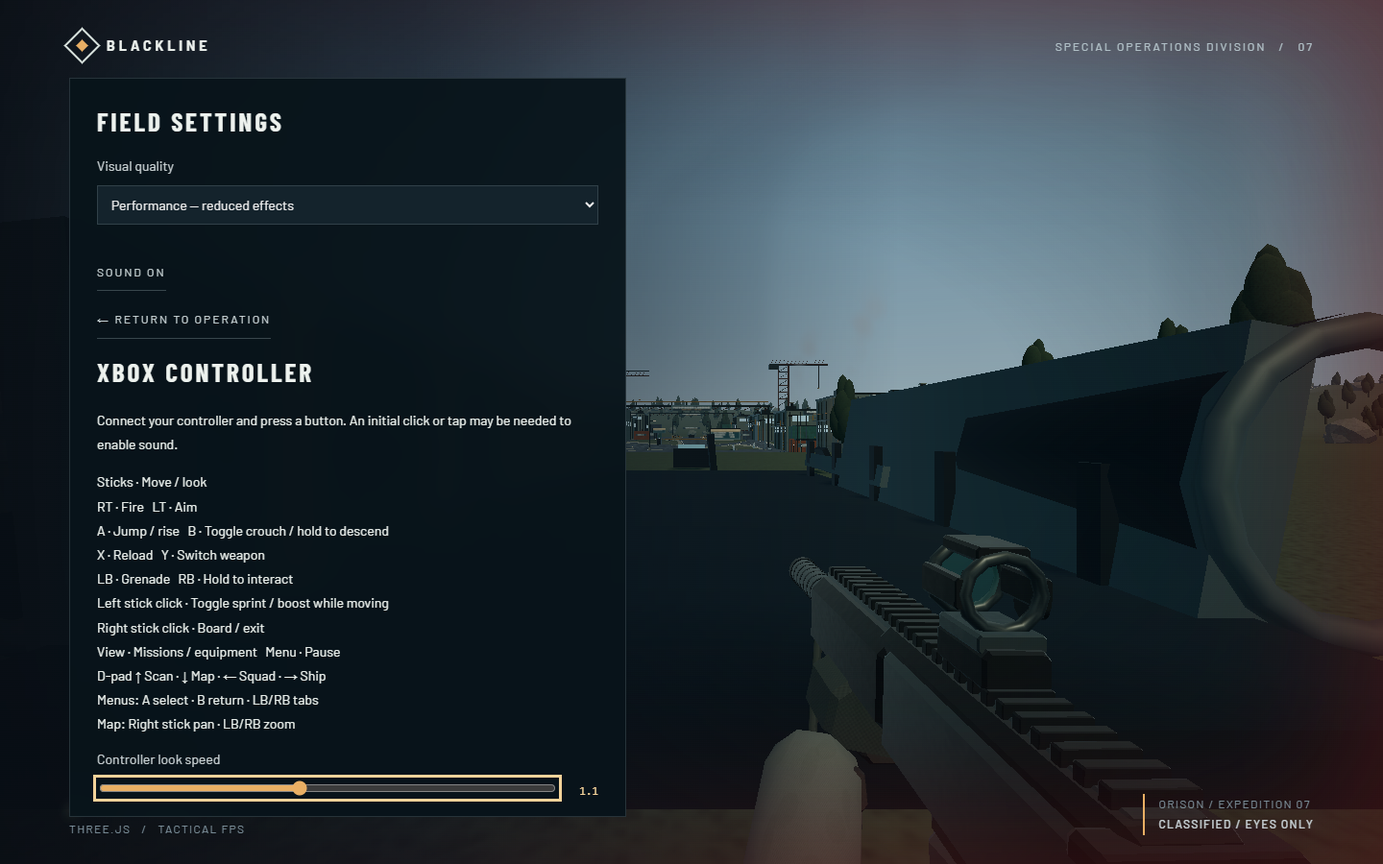
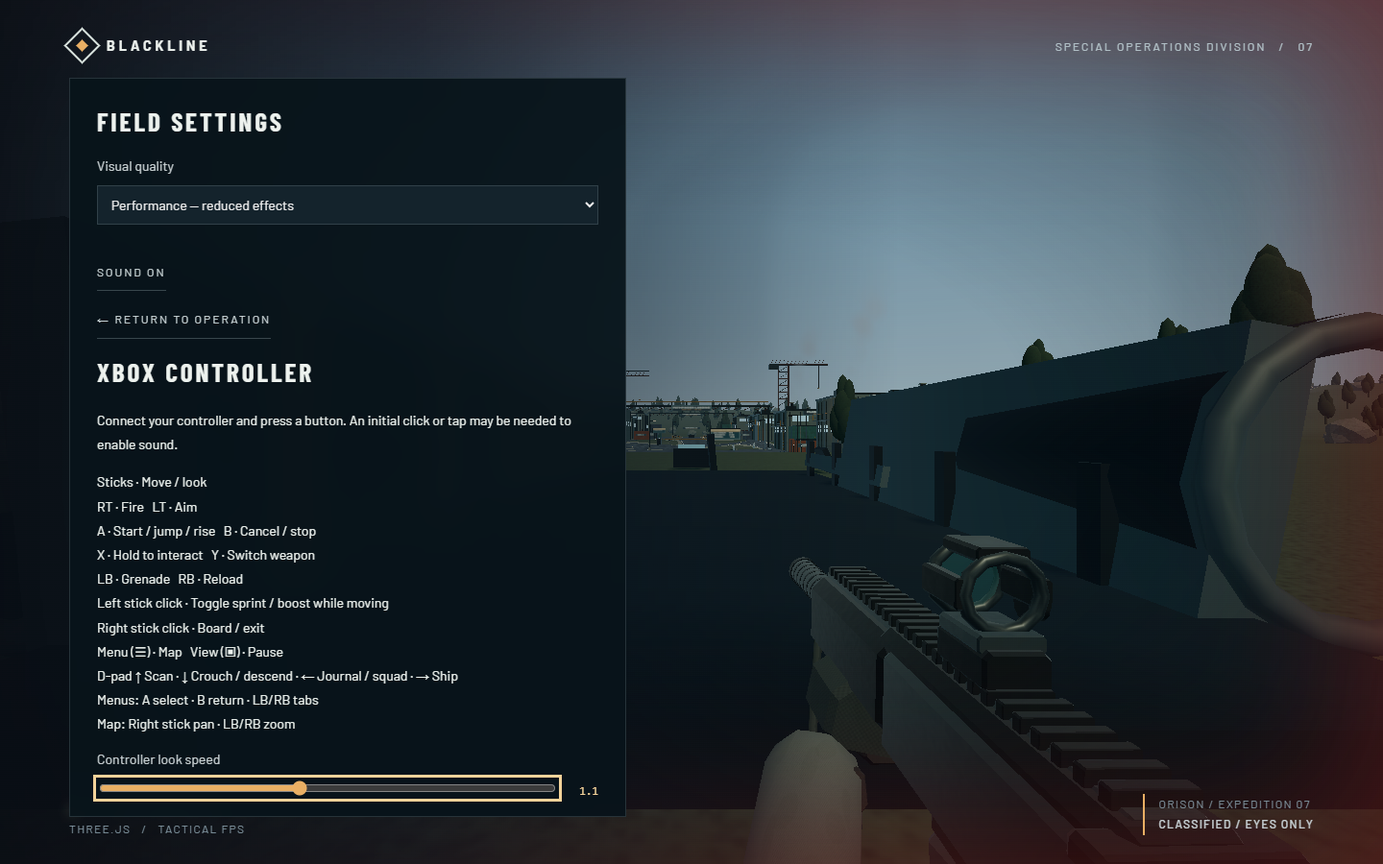
Apply requested Xbox buttons and B vehicle braking

Changed region(s): [[0.0625, 0.7467, 0.3438, 0.8089], [0.0938, 0.5911, 0.2812, 0.6844]]

diff --git a/src/main.ts b/src/main.ts
@@ -83,7 +83,7 @@ if(touchMode){$('utility').firstChild!.textContent='FRAG × ';document.querySele
 $('journal-hint').onclick=()=>openJournal();
 $('controls-button').insertAdjacentHTML('beforebegin','<button class="secondary" id="mission-menu" hidden>MISSIONS & EXPEDITION</button>');$('mission-menu').onclick=()=>openJournal();
 $('hud').insertAdjacentHTML('beforeend','<div id="controller-hint" hidden></div>');
-$('settings').insertAdjacentHTML('beforeend','<div class="controller-guide"><h3>XBOX CONTROLLER</h3><p>Connect your controller and press a button. An initial click or tap may be needed to enable sound.</p><p>Sticks · Move / look<br>RT · Fire &nbsp; LT · Aim<br>A · Jump / rise &nbsp; B · Toggle crouch / hold to descend<br>X · Reload &nbsp; Y · Switch weapon<br>LB · Grenade &nbsp; RB · Hold to interact<br>Left stick click · Toggle sprint / boost while moving<br>Right stick click · Board / exit<br>View · Missions / equipment &nbsp; Menu · Pause<br>D-pad ↑ Scan · ↓ Map · ← Squad · → Ship<br>Menus: A select · B return · LB/RB tabs<br>Map: Right stick pan · LB/RB zoom</p><label>Controller look speed<input id="pad-sensitivity" type="range" min="0.4" max="2" step="0.1" value="1"></label><label><input id="pad-invert" type="checkbox"> Invert controller vertical look</label></div>');
+$('settings').insertAdjacentHTML('beforeend','<div class="controller-guide"><h3>XBOX CONTROLLER</h3><p>Connect your controller and press a button. An initial click or tap may be needed to enable sound.</p><p>Sticks · Move / look<br>RT · Fire &nbsp; LT · Aim<br>A · Start / jump / rise &nbsp; B · Cancel / stop<br>X · Hold to interact &nbsp; Y · Switch weapon<br>LB · Grenade &nbsp; RB · Reload<br>Left stick click · Toggle sprint / boost while moving<br>Right stick click · Board / exit<br>Menu (☰) · Map &nbsp; View (▣) · Pause<br>D-pad ↑ Scan · ↓ Crouch / descend · ← Journal / squad · → Ship<br>Menus: A select · B return · LB/RB tabs<br>Map: Right stick pan · LB/RB zoom</p><label>Controller look speed<input id="pad-sensitivity" type="range" min="0.4" max="2" step="0.1" value="1"></label><label><input id="pad-invert" type="checkbox"> Invert controller vertical look</label></div>');
 const padSettings=installControllerSettings($('settings'));
 const sound=new Sound(), keys=new Set<string>();
 let firing=false,aiming=false,dragging=false,sensitivity=1,ready=false,accumulator=0,total=0,stepTime=0,toastUntil=0,subtitleUntil=0,hitUntil=0,crouched=false;
@@ -143,7 +143,7 @@ function resolvedTarget(){
  return target&&campaign.completed.includes(campaign.tracked)?{...target,faction:'friendly'}:target;
 }
 function mapSnapshot(){return {controller:gamepadMode,aboard:flight.piloting,target:resolvedTarget(),planetName:getPlanetAt(camera.position.x,camera.position.z).name,position:{x:camera.position.x,y:camera.position.y,z:camera.position.z},yaw:state.yaw,completed:[...campaign.completed,...campaign.encountersCompleted],signals:[...QUEST_PEOPLE.filter(p=>campaign.metPeople?.includes(p.id)&&personAvailable(p,campaign)).map(personTarget),...(encounters?.sites()??[]),...(flight?[shipSite()]:[])],boat:marine?{x:marine.position.x,z:marine.position.z}:undefined,discovered:campaign.discovered,tracked:campaign.tracked,patrols:enemies.map(e=>({x:e.position.x,z:e.position.z,alive:e.active&&e.health>0})),intel:true,ship:flight&&ownsShip(campaign)?{x:flight.position.x,z:flight.position.z}:undefined,allies:squad?.members.map(m=>({x:m.position.x,z:m.position.z,alive:m.health>0}))??[]};}
-function openMap(){if(state.mode!=='playing')return;setMenu('paused');mapOpen=true;$('menu').hidden=true;fieldMap.open(mapSnapshot());}
+function openMap(){if(state.mode!=='playing'&&state.mode!=='paused')return;setMenu('paused');mapOpen=true;$('menu').hidden=true;fieldMap.open(mapSnapshot());}
 function closeMap(){if(!mapOpen)return;mapOpen=false;fieldMap.close();setMenu('playing');void capturePointer();}
 
 function toast(text:string,seconds=2){$('toast').textContent=mobileHint(text);toastUntil=total+seconds;$('toast').style.opacity='1';}
@@ -249,7 +249,7 @@ window.addEventListener('mousemove',e=>{
 });
 
 async function capturePointer(){if(touchMode||gamepadMode||!renderer?.domElement.requestPointerLock)return;try{await renderer.domElement.requestPointerLock();}catch{toast(flight?.piloting?'MOVE MOUSE TO LOOK':'HOLD LEFT MOUSE TO LOOK',3);}}
-function mobileHint(text:string){if(gamepadMode)return text.replace(/hold USE/gi,'HOLD RB').replace(/HOLD E/g,'HOLD RB').replace(/F boards/g,'Right stick click boards').replace(/\bF\b/g,'R3').replace(/\bE\b/g,'RB').replace(/\bQ\b/g,'D-pad ← / Focus').replace(/\bH\b/g,'D-pad →').replace(/\bTab\b|\bTAB\b/g,'D-pad ↓').replace(/\bSpace\b|\bSPACE\b/g,'A').replace(/\bC\b/g,'B').replace(/\bShift\b|\bSHIFT\b/g,'L3').replace(/\bR ·/g,'X ·');return touchMode?text.replace(/F boards/g,'Tap BOARD for').replace(/F beside the hull/g,'Tap BOARD beside the hull').replace(/HOLD E/g,'HOLD USE').replace(/\bF\b/g,'BOARD / EXIT').replace(/\bE\b/g,'USE').replace(/\bQ\b/g,'MORE → FOCUS').replace(/\bH\b/g,'MORE → FIND SHIP').replace(/\bTab\b|\bTAB\b/g,'MAP').replace(/\bSpace\b|\bSPACE\b/g,'RISE').replace(/\bC\b/g,'DESCEND').replace(/\bSHIFT\b/g,'BOOST'):text;}
+function mobileHint(text:string){if(gamepadMode)return text.replace(/hold USE/gi,'HOLD X').replace(/HOLD E/g,'HOLD X').replace(/F boards/g,'Right stick click boards').replace(/\bF\b/g,'R3').replace(/\bE\b/g,'X').replace(/\bQ\b/g,'D-pad ← / Focus').replace(/\bH\b/g,'D-pad →').replace(/\bTab\b|\bTAB\b/g,'☰').replace(/\bSpace\b|\bSPACE\b/g,'A').replace(/\bC\b/g,'D-pad ↓').replace(/\bShift\b|\bSHIFT\b/g,'L3').replace(/\bR ·/g,'RB ·');return touchMode?text.replace(/F boards/g,'Tap BOARD for').replace(/F beside the hull/g,'Tap BOARD beside the hull').replace(/HOLD E/g,'HOLD USE').replace(/\bF\b/g,'BOARD / EXIT').replace(/\bE\b/g,'USE').replace(/\bQ\b/g,'MORE → FOCUS').replace(/\bH\b/g,'MORE → FIND SHIP').replace(/\bTab\b|\bTAB\b/g,'MAP').replace(/\bSpace\b|\bSPACE\b/g,'RISE').replace(/\bC\b/g,'DESCEND').replace(/\bSHIFT\b/g,'BOOST'):text;}
 function movementKeys(){return new Set(keys);}
 function analogMove(){return {x:Math.max(-1,Math.min(1,touchMove.x+padMove.x)),z:Math.max(-1,Math.min(1,touchMove.z+padMove.z))};}
 function isFiring(){return firing||padFire;}function isAiming(){return aiming||padAim;}
@@ -261,7 +261,7 @@ gamepad=createGamepad({settings:()=>padSettings.value,enabled:()=>gamepadMode&&r
  key(code,down){if(down){padKeys.add(code);handleKey(code);}else{padKeys.delete(code);if(!keyboardKeys.has(code))keys.delete(code);}},move(x,z){padMove.x=x;padMove.z=z;},
  look(x,y,dt){if(state.mode!=='playing'||opening.active)return;const delta=controllerLook(x,y,dt,padSettings.value,isAiming(),flight?.piloting??false);state.yaw+=delta.yaw;state.pitch=THREE.MathUtils.clamp(state.pitch+delta.pitch,-1.45,1.45);},
  fire(v){padFire=v;},aim(v){padAim=v;},disconnect(){gamepadMode=false;document.body.classList.remove('controller-active');if(state.mode==='playing')setMenu('paused');toast('CONTROLLER DISCONNECTED · RECONNECT OR USE KEYBOARD',5);},
- pause(){if(!$('settings').hidden){$('settings-close').click();return;}if(journalOpen||mapOpen)controllerBack();else if(state.mode==='playing')setMenu('paused');else if(state.mode==='paused')void deploy();},missions(){if(journalOpen)closeJournal();else if(state.mode==='playing'||state.mode==='paused')openJournal();},back(){if(opening?.active&&state.mode==='playing')finishOpening();else controllerBack();},panel:activePanel});
+ pause(){if(state.mode==='menu'||state.mode==='dead'||state.mode==='won'){if(!$('settings').hidden)$('settings-close').click();return;}if(journalOpen||mapOpen||!$('settings').hidden||state.mode==='playing')setMenu('paused');else if(state.mode==='paused')void deploy();},map(){if(mapOpen)closeMap();else openMap();},stop(){firing=aiming=false;keys.clear();keyboardKeys.clear();padKeys.clear();touch?.reset();touchMove.x=touchMove.z=0;if(flight?.piloting)flight.velocity.set(0,0,0);if(marine?.piloting)marine.stop();},back(){if(opening?.active&&state.mode==='playing')finishOpening();else controllerBack();},panel:activePanel});
 
 if(touchMode)touch=createTouchControls({key:(code,down)=>{if(down)handleKey(code);else keys.delete(code);},move:(x,z)=>{touchMove.x=x;touchMove.z=z;},look:(dx,dy)=>{if(state.mode!=='playing'||opening.active)return;const scale=.003*sensitivity*(isAiming()?.35:1);state.yaw-=dx*scale;state.pitch=THREE.MathUtils.clamp(state.pitch-dy*scale,-1.45,1.45);},fire:down=>{firing=down&&state.mode==='playing'&&!opening.active;},aim:down=>{aiming=down&&state.mode==='playing';},skip:finishOpening,wake:()=>{if(ready)sound.start();}});
 function reload(){if(state.weapon==='energy'){toast('ENERGY CELL RECHARGES BETWEEN SHOTS');return;}if(state.reload>0||state.ammo===30||state.reserve===0)return;state.reload=reloadDuration();sound.reload();toast('RELOADING',1.85);}
@@ -315,7 +315,7 @@ function toggleFlight(){
  if(flight.piloting){const exit=flight.tryExit();if(!exit){toast('LAND FIRST · SLOW DOWN AND DESCEND ON SOLID GROUND',3);return;}body.setTranslation({x:exit.x,y:exit.y-.7,z:exit.z},true);body.setNextKinematicTranslation({x:exit.x,y:exit.y-.7,z:exit.z});collider.setEnabled(true);camera.position.copy(exit);state.vertical=0;state.pitch=0;squad.disembark(exit,state.yaw);syncEnemies();toast('KESTREL LANDED · SQUAD DISEMBARKING');}
  else if(!ownsShip(campaign)){toast(shipOffer(campaign).description,6);return;}
  else if(['cell','ship'].includes(campaign.onboarding?.stage)){toast('KESTREL NEEDS ITS POWER CELL · FOLLOW THE RECOVERY BEACON');return;}
- else if(flight.board(camera.position)){saveGame();finishRecovery('complete');squad.embark();collider.setEnabled(false);const pose=flight.cameraPose();state.yaw=pose.yaw;state.pitch=pose.pitch;toast(gamepadMode?'RIGHT STICK · LOOK   LEFT STICK · THRUST   A / B · ALTITUDE':touchMode?'SWIPE TO LOOK · RISE TO TAKE OFF':'MOUSE LOOK · WASD THRUST · SPACE UP · C DOWN',4);subtitle('Rook: Squad aboard. Set your heading. The carrier is a safe place to refuel and regroup.',5);}
+ else if(flight.board(camera.position)){saveGame();finishRecovery('complete');squad.embark();collider.setEnabled(false);const pose=flight.cameraPose();state.yaw=pose.yaw;state.pitch=pose.pitch;toast(gamepadMode?'RIGHT STICK · LOOK   LEFT STICK · THRUST   A / D-PAD ↓ · ALTITUDE':touchMode?'SWIPE TO LOOK · RISE TO TAKE OFF':'MOUSE LOOK · WASD THRUST · SPACE UP · C DOWN',4);subtitle('Rook: Squad aboard. Set your heading. The carrier is a safe place to refuel and regroup.',5);}
  else toast(flight.nearbyPrompt(camera.position)??'F · BOARD KESTREL FROM BESIDE ITS HULL');
  firing=false;aiming=false;gamepad?.reset();
 }
@@ -381,7 +381,7 @@ function updateHud(){
  const heading=headingDegrees(state.yaw);$('bearing').textContent=`${cardinal(heading)} · ${String(Math.round(heading)%360).padStart(3,'0')}°`;compassTicks.forEach((el,i)=>{const d=bearingDelta(i*15,heading);el.style.transform=`translateX(${d*2}px)`;el.hidden=Math.abs(d)>85;});const shipDelta=bearingDelta(bearingTo(camera.position,flight.position),heading);$('ship-tick').style.transform=`translateX(${THREE.MathUtils.clamp(shipDelta*2,-$('compass').clientWidth/2+14,$('compass').clientWidth/2-14)}px)`;$('ship-tick').textContent=Math.abs(shipDelta)>75?(shipDelta<0?'◁':'▷'):'◇';$('ship-hint').textContent=`H · KESTREL ${Math.round(camera.position.distanceTo(flight.position))} m`;
  const story=campaign.activeMission==='main'?mainQuest(campaign):null;if(story){$('objective-phase').textContent=story.complete?'A SIGNAL HOME / COMPLETE':`A SIGNAL HOME / CHAPTER ${story.chapter} OF ${story.total}`;$('objective-name').textContent=story.stage==='raider'?boardingStatus(campaign).label:story.title;$('objective-detail').textContent=story.stage==='raider'?boardingStatus(campaign).description:story.description;}
  const mission=CONTRACTS.find(c=>c.id===campaign.activeMission&&campaign.contracts[c.id]==='active');if(mission){$('objective-phase').textContent='MISSION / '+mission.title.toUpperCase();$('objective-name').textContent=campaign.tracked==='corsair'?boardingStatus(campaign).label:tracked?.name??mission.title;$('objective-detail').textContent=campaign.tracked==='corsair'?boardingStatus(campaign).description:mission.description;}
- $('journal-hint').textContent=gamepadMode?'VIEW · MISSIONS':'I · MISSIONS';$('controller-hint').hidden=!gamepadMode;$('controller-hint').textContent=flying?'LS · Thrust   A / B · Rise / descend   L3 · Toggle boost   R3 · Exit':marine.piloting?'LS · Throttle / steer   RT · Fire   R3 · Exit   VIEW · Journal':'LS · Move / click to sprint   A · Jump   B · Crouch   RB · Use   VIEW · Journal';$('utility').hidden=flying;$('utility').firstChild!.textContent=gamepadMode?'LB · FRAG × ':touchMode?'FRAG × ':'G · FRAG × ';if(gamepadMode){$('ship-hint').textContent='D-pad → · FIND KESTREL';$('squad-cluster').querySelector('small')!.textContent='D-pad ← · SQUAD ORDERS';}
+ $('journal-hint').textContent=gamepadMode?'D-pad ← · JOURNAL':'I · MISSIONS';$('controller-hint').hidden=!gamepadMode;$('controller-hint').textContent=flying?'LS · Thrust   A · Rise   D-pad ↓ · Descend   B · Stop   R3 · Exit':marine.piloting?'LS · Throttle / steer   B · Stop   R3 · Exit   ☰ · Map':'LS · Move / click to sprint   A · Jump   X · Use   B · Stop   ☰ · Map';$('utility').hidden=flying;$('utility').firstChild!.textContent=gamepadMode?'LB · FRAG × ':touchMode?'FRAG × ':'G · FRAG × ';if(gamepadMode){$('ship-hint').textContent='D-pad → · FIND KESTREL';$('squad-cluster').querySelector('small')!.textContent='D-pad ← · SQUAD ORDERS';}
  const stage=campaign.onboarding?.stage;if(stage&&stage!=='complete'){const brief=recoveryBrief(campaign);$('objective-phase').textContent=usesShipPurchase(campaign)?'CRASHFALL / SURVIVE THE LANDING':'CRASHFALL / RECOVER YOUR SHIP';$('objective-name').textContent=brief.title;$('objective-detail').textContent=brief.description;}
  navigationUI.update({position:camera.position,yaw:state.yaw,tracked,ship:ownsShip(campaign)?shipSite():null,aboard:flying,flying,landed:fs.landed,speed:fs.speed,altitude:fs.altitude,visible:state.mode==='playing'});$('shield-label').hidden=flying;$('shield-track').hidden=flying;$('shield-label').textContent=`SHIELD ${Math.ceil(state.shield)} · ${gamepadMode?'Y':'X'} · ${state.weapon==='energy'?'BALLISTIC':'ENERGY'}`;$('shield-fill').style.width=`${state.shield/shieldCapacity(campaign.upgrades?.shieldCell||0)*100}%`;$('crosshair').classList.toggle('aiming',isAiming()&&!flying);
  const near=nearbySites.find(s=>siteDistance(camera.position,s)<6);const encounterPrompt=encounters.prompt(camera.position,guardCount);let prompt='';if(boating)prompt='W/S THROTTLE · A/D RUDDER · STOP THEN F TO LEAVE HELM';else if(flying)prompt=flight.landed?'F · DISEMBARK / SPACE · TAKE OFF':'SPACE ↑   C ↓   SHIFT BOOST · LAND SLOWLY TO EXIT';else if(revivePrompt)prompt=`HOLD E · REVIVE ${revivePrompt.name}`;else if(encounterPrompt)prompt=encounterPrompt.text;else if(near)prompt=interactionLabel(campaign,near,guardCount(near.id),state.time);else prompt=marine.nearbyPrompt(camera.position)??flight.nearbyPrompt(camera.position)??(state.reload>0?'RELOADING':state.ammo===0?'R · RELOAD':'');

diff --git a/src/gamepad.ts b/src/gamepad.ts
@@ -1,5 +1,5 @@
 import {readPad,PAD_KEYS,controllerSettings} from './gamepad-rules.mjs';
-type Actions={enabled:()=>boolean;context:()=>string;vehicle?:()=>boolean;panMap?:(x:number,z:number,dt:number)=>void;settings?:()=>ReturnType<typeof controllerSettings>;key:(code:string,down:boolean)=>void;move:(x:number,z:number)=>void;look:(x:number,y:number,dt:number)=>void;fire:(v:boolean)=>void;aim:(v:boolean)=>void;active:()=>void;disconnect:()=>void;pause:()=>void;missions:()=>void;back:()=>void;panel:()=>HTMLElement|null;wake:()=>void};
+type Actions={enabled:()=>boolean;context:()=>string;vehicle?:()=>boolean;panMap?:(x:number,z:number,dt:number)=>void;settings?:()=>ReturnType<typeof controllerSettings>;key:(code:string,down:boolean)=>void;move:(x:number,z:number)=>void;look:(x:number,y:number,dt:number)=>void;fire:(v:boolean)=>void;aim:(v:boolean)=>void;active:()=>void;disconnect:()=>void;pause:()=>void;map:()=>void;stop:()=>void;back:()=>void;panel:()=>HTMLElement|null;wake:()=>void};
 export function createGamepad(actions:Actions){
  let index:number|null=null,previous:boolean[]=[],blocked=new Set<number>(),held=new Set<string>(),context='',nextNav=0,navDirection=0,connected=false,moveBlocked=false,lookBlocked=false,nextWake=0,hasConnected=false;
  let sprint=false,crouch=false,vehicle=false;
@@ -30,8 +30,8 @@ export function createGamepad(actions:Actions){
   if(Math.hypot(sample.move.x,sample.move.y)<.01)moveBlocked=false;
   if(Math.hypot(sample.look.x,sample.look.y)<.01)lookBlocked=false;
   const pressed=(i:number)=>sample.pressed[i]&&!blocked.has(i),down=(i:number)=>sample.down[i]&&!blocked.has(i);
-  if(pressed(9)){reset();actions.pause();return;}
-  if(pressed(8)){reset();actions.missions();return;}
+  if(pressed(9)){reset();actions.map();return;}
+  if(pressed(8)){reset();actions.pause();return;}
   if(current==='intro'){if(pressed(0)||pressed(1))actions.back();return;}
   if(current!=='playing'){
    const mx=moveBlocked?0:sample.move.x,my=moveBlocked?0:sample.move.y;
@@ -51,14 +51,17 @@ export function createGamepad(actions:Actions){
    else if(Math.abs(ry)>.01)panel?.scrollBy({top:ry*650*Math.min(.05,dt),behavior:'instant'});
    if(pressed(1))actions.back();return;
   }
-  navDirection=0;actions.move(moveBlocked?0:sample.move.x,moveBlocked?0:sample.move.y);actions.aim(down(6));actions.fire(down(7));actions.look(lookBlocked?0:sample.look.x,lookBlocked?0:sample.look.y,dt);
+  navDirection=0;
+  // B cancels held actions and brakes; movement must return to neutral before restarting.
+  if(down(1)){release();moveBlocked=true;sample.down.forEach((v,i)=>{if(v&&i!==1)blocked.add(i);});actions.stop();actions.look(lookBlocked?0:sample.look.x,lookBlocked?0:sample.look.y,dt);return;}
+  actions.move(moveBlocked?0:sample.move.x,moveBlocked?0:sample.move.y);actions.aim(down(6));actions.fire(down(7));actions.look(lookBlocked?0:sample.look.x,lookBlocked?0:sample.look.y,dt);
   const inVehicle=actions.vehicle?.()??false;
   if(inVehicle!==vehicle){sprint=crouch=false;vehicle=inVehicle;}
-  if(pressed(1)&&!vehicle){crouch=!crouch;sprint=false;}
+  if(pressed(13)&&!vehicle){crouch=!crouch;sprint=false;}
   if(pressed(0)&&!vehicle)crouch=false;
   if(pressed(10)){sprint=!sprint;if(sprint)crouch=false;}
   const moving=!moveBlocked&&Math.hypot(sample.move.x,sample.move.y)>.2;
-  if((!moving&&!(vehicle&&(down(0)||down(1)))&&!pressed(10))||(!vehicle&&(down(6)||crouch)))sprint=false;
-  for(const [button,key] of Object.entries(PAD_KEYS)){const i=+button,heldDown=i===1?(vehicle?down(i):crouch):i===10?sprint:down(i);if(heldDown&&!held.has(key)){held.add(key);actions.key(key,true);if(actions.context()!==current){reset();return;}}else if(!heldDown&&held.delete(key))actions.key(key,false);}
+  if((!moving&&!(vehicle&&(down(0)||down(13)))&&!pressed(10))||(!vehicle&&(down(6)||crouch)))sprint=false;
+  for(const [button,key] of Object.entries(PAD_KEYS)){const i=+button,heldDown=i===13?(vehicle?down(i):crouch):i===10?sprint:down(i);if(heldDown&&!held.has(key)){held.add(key);actions.key(key,true);if(actions.context()!==current){reset();return;}}else if(!heldDown&&held.delete(key))actions.key(key,false);}
  }};
 }

diff --git a/src/marine.ts b/src/marine.ts
@@ -55,7 +55,7 @@ export function createMarine(scene:THREE.Scene,world:RAPIER.World){
  function reset(){patrolHealth=150;patrolTime=0;patrolCooldown=2;patrol.visible=true;patrolCollider.setEnabled(true);patrol.position.set(-500,SEA_LEVEL+.7,1135);patrol.rotation.set(0,0,0);patrolBody.setTranslation(patrol.position,true);patrolBody.setNextKinematicTranslation(patrol.position);patrolBody.setRotation({x:0,y:0,z:0,w:1},true);patrolBody.setNextKinematicRotation({x:0,y:0,z:0,w:1});position.copy(MOORING);velocity.set(0,0,0);piloting=false;health=100;yaw=0;pitch=0;lookYaw=0;speed=0;travelled=0;collisions=0;body.setTranslation(position,true);body.setNextKinematicTranslation(position);body.setRotation({x:0,y:0,z:0,w:1},true);body.setNextKinematicRotation({x:0,y:0,z:0,w:1});render(0,0);}
  function restoreAt(saved:{x:number,y:number,z:number,yaw?:number}){const heading=saved.yaw??0;if(![saved.x,saved.y,saved.z,heading].every(Number.isFinite)||Math.abs(saved.y-(SEA_LEVEL+.7))>.5||!waterClear(saved.x,saved.z,heading))return false;const restored=new THREE.Vector3(saved.x,SEA_LEVEL+.7,saved.z),orientation=new THREE.Quaternion().setFromAxisAngle(THREE.Object3D.DEFAULT_UP,heading);if(world.intersectionWithShape(restored.clone().add(new THREE.Vector3(0,1.2,0)),orientation,sweep,RAPIER.QueryFilterFlags.ONLY_FIXED))return false;position.copy(restored);velocity.set(0,0,0);yaw=heading;lookYaw=heading;pitch=0;speed=0;piloting=false;health=100;body.setTranslation(position,true);body.setNextKinematicTranslation(position);body.setRotation(orientation,true);body.setNextKinematicRotation(orientation);render(0,0);return true;}
  function setPatrolDefeated(defeated:boolean){patrolHealth=defeated?0:150;patrol.visible=!defeated;patrolCollider.setEnabled(!defeated);}
- reset();return {position,velocity,group,collider,get piloting(){return piloting;},get health(){return health;},get landed(){return Math.abs(speed)<1.2;},board,tryBoard:board,tryExit,exitPosition:tryExit,step,update:step,render,reset,restoreAt,setPatrolDefeated,stepPatrol,hit,
+ reset();return {position,velocity,group,collider,stop(){speed=0;velocity.set(0,0,0);},get piloting(){return piloting;},get health(){return health;},get landed(){return Math.abs(speed)<1.2;},board,tryBoard:board,tryExit,exitPosition:tryExit,step,update:step,render,reset,restoreAt,setPatrolDefeated,stepPatrol,hit,
   nearbyPrompt(player:THREE.Vector3){return !piloting&&health>0&&(player.distanceTo(position.clone().add(new THREE.Vector3(0,DECK+1,0)))<8||(position.distanceTo(MOORING)<3&&player.distanceTo(new THREE.Vector3(275,13.7,950))<7))?'F — PILOT WAYFARER LAUNCH':null;},
   cameraPose(){return {position:new THREE.Vector3(0,3.75,-1.7).applyAxisAngle(THREE.Object3D.DEFAULT_UP,yaw).add(position),yaw:lookYaw,pitch};},
   hurt(amount:number){health=Math.max(0,health-Math.max(0,amount));},repair(amount=100){health=Math.min(100,health+Math.max(0,amount));},

diff --git a/README.md b/README.md
@@ -41,7 +41,7 @@ WebGL 2 with hardware acceleration is required. Desktop uses keyboard and mouse;
 | I | Journal, contracts, refits and saving | Journal, contracts, refits and saving |
 | Esc / P / M | Pause / mute | Pause / mute |
 
-Kestrel has a permanent live compass beacon, a pinned atlas entry and an H tracking shortcut. New expeditions protect the crash survivors, meet Mara, complete Cold Harbour and Northwatch on foot, then follow the causeway to Port Astra City. Kestrel costs 300 salvage at Hangar 03. Hold E / Xbox RB / touch Interact beside the sales terminal to buy; the main quest and compass mark it. Existing pilots keep their ships. Walk beside it and press F, then Space to lift off. Base cruise speed is 140 m/s, or 420 m/s with boost; refits increase performance. Use C to descend and release thrust to slow before landing. The ship checks its swept hull against physical buildings and terrain, and refuses airborne or open-ocean disembarkation. Land on marked carrier and station pads to explore on foot.
+Kestrel has a permanent live compass beacon, a pinned atlas entry and an H tracking shortcut. New expeditions protect the crash survivors, meet Mara, complete Cold Harbour and Northwatch on foot, then follow the causeway to Port Astra City. Kestrel costs 300 salvage at Hangar 03. Hold E / Xbox X / touch Interact beside the sales terminal to buy; the main quest and compass mark it. Existing pilots keep their ships. Walk beside it and press F, then Space to lift off. Base cruise speed is 140 m/s, or 420 m/s with boost; refits increase performance. Use C to descend and release thrust to slow before landing. The ship checks its swept hull against physical buildings and terrain, and refuses airborne or open-ocean disembarkation. Land on marked carrier and station pads to explore on foot.
 
 At CNS Wayfarer, approach the launch dock and press F to take the helm. W/S controls throttle, A/D steers, and Shift increases speed. Release throttle and slow before pressing F to leave the helm onto the launch deck. The squad travels aboard with you. Watch for the armed Corsair coastal patrol.
 
@@ -112,13 +112,15 @@ Expansion validation: 64 unit tests, seven desktop expedition checks, four new m
 
 ## Xbox controller comfort
 
-Connect an Xbox One/standard-mapping controller and press A. Sticks move/look; LT aims; RT fires; A jumps/rises; B toggles crouch on foot / holds descent in vehicles; X reloads; Y switches weapons; LB throws a grenade; hold RB to interact; click L3 while moving to toggle sprint/boost (neutral stick or aiming ends sprint); R3 boards/exits; View opens missions; Menu pauses. D-pad up scans, down opens the map, left opens squad orders and right finds Kestrel.
+Connect an Xbox One/standard-mapping controller and press A. Left stick moves; right stick controls the camera; RT shoots. Menu (three lines, ☰) toggles the map; View (the small button immediately left of it) pauses/resumes. X interacts (hold for progress actions); B cancels/back or stops movement and brakes vehicles; A starts/confirms/jumps and rises in flight.
+
+Other actions remain available: LT aim, RB reload, Y weapon swap, LB grenade, click left stick to toggle sprint/boost, click right stick to board/exit. D-pad up scans, down toggles crouch / holds descent, left opens journal/squad and right tracks the ship. Access missions/equipment using journal tabs or the pause menu. After B stops movement, centre the stick before moving again.
 
 Controls & Settings saves look speed, aiming speed, flight speed, separate stick deadzones and inversion. Use D-pad/left stick to navigate, left/right to adjust, A to select, and B to return. LB/RB cycles every journal tab, including the current conversation. On the map, right stick pans and LB/RB zooms. Right stick scrolls long menus. Release held controls after changing menus or reconnecting. The game pauses on disconnect. Hardware behavior still needs a physical controller playtest.
 
 New expeditions now include a visible survivor rally and three-raider defense before meeting Mara. Ship ownership comes later through the city purchase. Existing saves keep their current progression. Wrecks and distress signals have separate interaction steps and residents respond to completed work.
 
-Flight descent and infantry crouch use **C**. Ctrl is not a game control: Ctrl+W (or Ctrl+Shift+W while boosting) closes an Edge tab/window. Xbox B and the touch Descend button keep their existing behavior.
+Flight descent and infantry crouch use **C**. Ctrl is not a game control: Ctrl+W (or Ctrl+Shift+W while boosting) closes an Edge tab/window. Xbox D-pad down and the touch Descend button descend. B cancels or brakes.
 
 
 ### Complete controller flow

diff --git a/UPGRADES.md b/UPGRADES.md
@@ -93,3 +93,10 @@ Verification: 94 automated rule/input tests passed, plus Edge controller, openin
 - Atlas supports right-stick panning and bumper zoom, with stable destination focus and controller-specific hints. Touch map hints remain available when using touch.
 - Input handover clears stale keyboard/touch movement; an idle virtual controller cannot prevent the active Xbox pad from being selected. Loading waits for the playable menu; pause/disconnect releases latched actions.
 - Verified with rule tests and controller browser scenarios, with separate UI screenshot review. Physical controller validation remains outstanding.
+
+
+## Requested Xbox button layout
+
+Menu (three lines) now toggles the map; View (left of Menu) pauses. X interacts; B cancels/back and stops movement, including braking Kestrel and the launch. A starts/confirms/jumps; left stick moves, right stick looks, RT shoots. RB reloads; D-pad down crouches/descends; D-pad left opens the journal/squad. Previous mapping descriptions above record earlier versions and are superseded by this layout.
+
+Unit coverage verifies these exact bindings, held-action cancellation, neutral-stick recovery and menu separation. The controller-only Edge journey includes X quest/ship interactions and B braking both vehicles.
